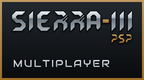
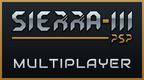
XMB tile: the title's amber rule under SIERRA, larger build label
The rule runs from the mark's left edge to just before PSP, where the III
starts, echoing the bar under HALO on the wallpaper. The label goes from 10 to
13 px; its tracking tightens from 0.14 to 0.08 em so MULTIPLAYER still fits
the mark's 120 px width.

Changed region(s): [[0.0833, 0.725, 0.9167, 0.85], [0.0833, 0.45, 0.7778, 0.5]]

diff --git a/psp/xmb/icon0.py b/psp/xmb/icon0.py
@@ -2,8 +2,9 @@
 """Draws ICON0.PNG, the game-list tile, for both builds from the Sierra-III mark.
 
 The tile: the steel plate and border of the first placeholder, the border in the mark's amber;
-the mark as it sits on the wallpaper (PSP under the III); the build named beneath it in
-Audiowide, the font of the title's COMBAT EVOLVED. Written to psp/xmb/<campaign|mp>/ICON0.PNG.
+the mark as it sits on the wallpaper (PSP under the III), with the title's amber rule under
+SIERRA running up to PSP; the build named beneath it in Audiowide, the font of the title's
+COMBAT EVOLVED. Written to psp/xmb/<campaign|mp>/ICON0.PNG.
 
 Drawn at 4x and shrunk to 144 x 80: the mark's outline is about one pixel wide at tile size,
 and drawn there directly it would break up (the wallpaper is drawn at 2x for the same reason).
@@ -32,9 +33,12 @@ STEEL_TOP, STEEL_BOTTOM = (0xe9, 0xee, 0xf2), (0x9a, 0xa7, 0xb2)
 BORDER = 2                           # px at tile size, as on the placeholder
 MARK_W = 120                         # the lettering's width at tile size (600 units in the SVG)
 MARK_X, MARK_Y = 12, 11              # top-left of the lettering
-LABEL_PX = 10                        # label font size at tile size
-LABEL_X, LABEL_BOTTOM = 13, 67       # left edge and baseline of the label
-TRACK = 0.14                         # label tracking, in ems: COMBAT EVOLVED is set wide
+RULE_Y, RULE_H = 37, 2               # the amber rule: top and height at tile size
+RULE_GAP = 3                         # space between the rule's end and PSP
+LABEL_PX = 13                        # label font size at tile size
+LABEL_X, LABEL_BOTTOM = 13, 68       # left edge and baseline of the label
+TRACK = 0.08                         # label tracking, in ems: wide like COMBAT EVOLVED, but
+                                     # tight enough for MULTIPLAYER to fit the mark's width
 
 
 def vgradient(size, top, bottom):
@@ -76,6 +80,14 @@ def mark(width):
     return out, 4 * scale
 
 
+def rule(width, height):
+    """The title's rule (the bar under HALO): amber, with a thin dark edge."""
+    edge = max(1, SS // 2)
+    out = Image.new("RGBA", (width + 2 * edge, height + 2 * edge), (6, 8, 10, 255))
+    out.paste(vgradient((width, height), AMBER_TOP, AMBER_BOTTOM), (edge, edge))
+    return out, edge
+
+
 def label(text, px):
     """The build's name, tracked out and filled with the title's steel."""
     font = ImageFont.truetype(os.path.join(HERE, "fonts", "Audiowide-Regular.ttf"), px)
@@ -100,6 +112,11 @@ def tile(name):
 
     m, margin = mark(MARK_W * SS)
     img.alpha_composite(with_shadow(m, dy=SS, blur=SS * 0.8), (round(MARK_X * SS - margin), round(MARK_Y * SS - margin)))
+
+    # PSP and the III both start at x 498 of the mark's 600 units
+    psp_x = MARK_X + MARK_W * 498 / 600
+    r, edge = rule(round((psp_x - RULE_GAP - MARK_X) * SS), RULE_H * SS)
+    img.alpha_composite(with_shadow(r, dy=SS // 2, blur=SS * 0.6), (MARK_X * SS - edge, RULE_Y * SS - edge))
 
     lab, ascent = label(name, LABEL_PX * SS)
     img.alpha_composite(with_shadow(lab, dy=SS, blur=SS * 0.6), (LABEL_X * SS, LABEL_BOTTOM * SS - ascent))

diff --git a/docs/xmb_menu.md b/docs/xmb_menu.md
@@ -31,7 +31,7 @@ The game title sits at the top (x 152–328, y 14–73), centred on the screen's
 
 ## The tile (2026-10-17)
 
-`psp/xmb/icon0.py` draws both builds' ICON0 from `sierra_mark.svg`: the first placeholder's steel plate, its 2 px border in the mark's amber (`#c29b63` → `#a06e26`), the mark as it sat on the wallpaper (PSP under the III, 120 px wide), and the build's name below it in Audiowide with the title's steel. The two entries differ only in that name.
+`psp/xmb/icon0.py` draws both builds' ICON0 from `sierra_mark.svg`: the first placeholder's steel plate, its 2 px border in the mark's amber (`#c29b63` → `#a06e26`), the mark as it sat on the wallpaper (PSP under the III, 120 px wide), the title's amber rule under SIERRA up to PSP (it ends where the III starts), and the build's name below it in Audiowide at 13 px with the title's steel, tracked a little tighter than COMBAT EVOLVED so MULTIPLAYER fits the mark's width. The two entries differ only in that name.
 
 - **Drawn at 4× and shrunk.** The mark's outline is about 1 px at tile size; drawn directly it breaks up (the lesson from designing it at 2×).
 - **Outline under fill.** The master asks for `paint-order="stroke"`, which cairosvg ignores; the script renders the outline and the fill as two passes so PSP's thin strokes keep their amber.
